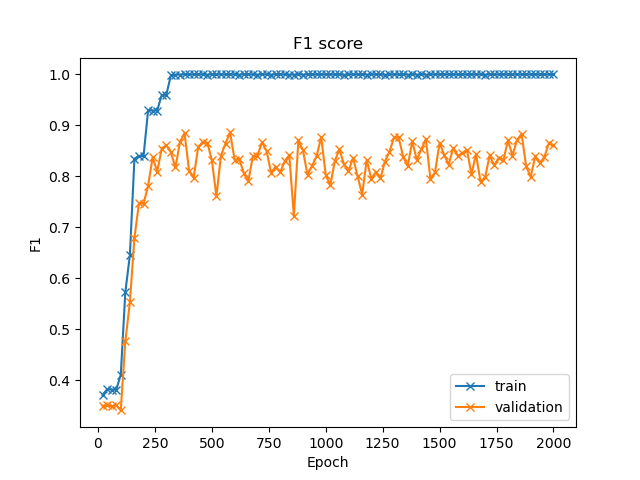
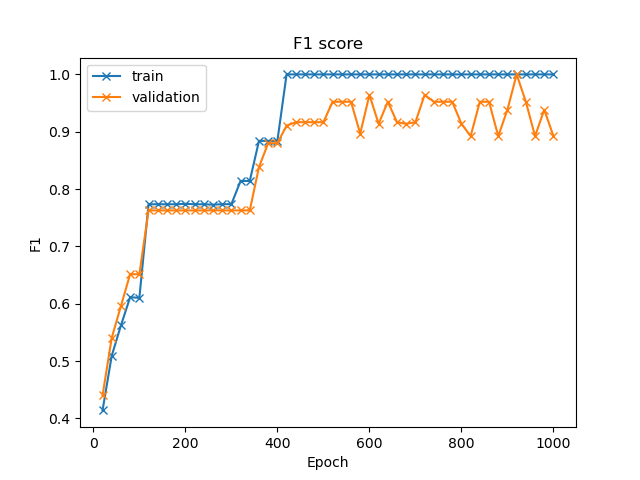
adding test-time augmentation

diff --git a/training/train.py b/training/train.py
@@ -7,6 +7,7 @@ import json
 from tqdm import tqdm
 from sklearn.metrics import f1_score, ConfusionMatrixDisplay
 import matplotlib.pyplot as plt
+from collections import defaultdict
 
 
 N_EPOCHS = 1000
@@ -36,8 +37,8 @@ def main():
     ]
     train_ds = torch.utils.data.ConcatDataset(train_datasets)
     val_ds = torch.utils.data.ConcatDataset(val_datasets)
-    val_ds = torch.utils.data.Subset(val_ds, indices=[i for i in range(len(val_ds))
-                                                      if not val_ds[i]['augmented']])
+    # val_ds = torch.utils.data.Subset(val_ds, indices=[i for i in range(len(val_ds))
+    #                                                   if not val_ds[i]['augmented']])
     
     train_dl = DataLoader(train_ds, shuffle=True, batch_size=64)
     val_dl = DataLoader(val_ds, shuffle=True, batch_size=64)
@@ -78,10 +79,12 @@ def main():
 
         if epoch % 20 == 0:
             evaluation_epochs.append(epoch)
-            train_acc, train_f1 = evaluate(model, train_dl, device)
+            # train_acc, train_f1 = evaluate(model, train_dl, device)
+            train_acc, train_f1 = evaluate_tta(model, train_dl, device)
             train_epoch_f1_scores.append(train_f1)
             train_epoch_accuracies.append(train_acc)
-            val_acc, val_f1 = evaluate(model, val_dl, device)
+            # val_acc, val_f1 = evaluate(model, val_dl, device)
+            val_acc, val_f1 = evaluate_tta(model, val_dl, device)
             val_epoch_f1_scores.append(val_f1)
             val_epoch_accuracies.append(val_acc)
 
@@ -110,7 +113,8 @@ def main():
     plt.savefig('results/f1.png')
     plt.close()
 
-    _, _, gt, pred = evaluate(model, val_dl, device, return_results=True)
+    # _, _, gt, pred = evaluate(model, val_dl, device, return_results=True)
+    _, _, gt, pred = evaluate_tta(model, val_dl, device, return_results=True)
     make_confusion_matrix(gt, pred, metadata['pamap2']['label_names'])
 
 
@@ -131,6 +135,37 @@ def evaluate(model, dl, device, return_results=False):
                 pred = np.concatenate([pred, curr_pred])
 
         pbar.set_postfix({'accuracy': (gt == pred).mean(), 'f1': f1_score(gt, pred, average='weighted')})
+
+    ret_val = ((gt == pred).mean(), f1_score(gt, pred, average='weighted'))
+    if return_results:
+        ret_val = (*ret_val, gt, pred)
+
+    return ret_val
+
+
+def evaluate_tta(model, dl, device, return_results=False):
+    pbar = tqdm(iter(dl), desc=f'Evaluating')
+    gt = {}
+    pred = defaultdict(lambda: [])
+    for batch in pbar:
+        with torch.no_grad():
+            curr_pred = model([x.to(device) for x in batch['spectrograms']]).detach().cpu().numpy()
+            curr_gt = batch['label'].detach().cpu().numpy().argmax(axis=1)
+            curr_ids = batch['id']
+
+            for sample_id, sample_gt, sample_pred in zip(curr_ids, curr_gt, curr_pred):
+                gt[sample_id] = sample_gt
+                pred[sample_id].append(sample_pred)
+
+    pred = {
+        k: np.stack(v).mean(axis=0).argmax() for k, v in pred.items()
+    }
+
+    keys = gt.keys()
+    gt = np.array([gt[k] for k in keys])
+    pred = np.array([pred[k] for k in keys])
+
+    print(f'accuracy: {(gt == pred).mean()}, f1: {f1_score(gt, pred, average="weighted")}')
 
     ret_val = ((gt == pred).mean(), f1_score(gt, pred, average='weighted'))
     if return_results:

diff --git a/dataloaders/dataloader.py b/dataloaders/dataloader.py
@@ -9,6 +9,7 @@ class SensorFusionDataset(Dataset):
         self.labels = torch.nn.functional.one_hot(torch.tensor(np.array(data['labels']))).to(torch.float32)
         self.spectrograms = data['spectrograms']
         self.augmented = np.array(data['augmented'])
+        self.ids = data['ids']
         self.window_size = window_size
         self.mini_window_size = mini_window_size
         self.full_window_size = window_size * mini_window_size
@@ -56,5 +57,6 @@ class SensorFusionDataset(Dataset):
         return {
             'spectrograms': full_window,
             'label': self.labels[session_idx],
-            'augmented': self.augmented[session_idx]
+            'augmented': self.augmented[session_idx],
+            'id': self.ids[session_idx]
         }
